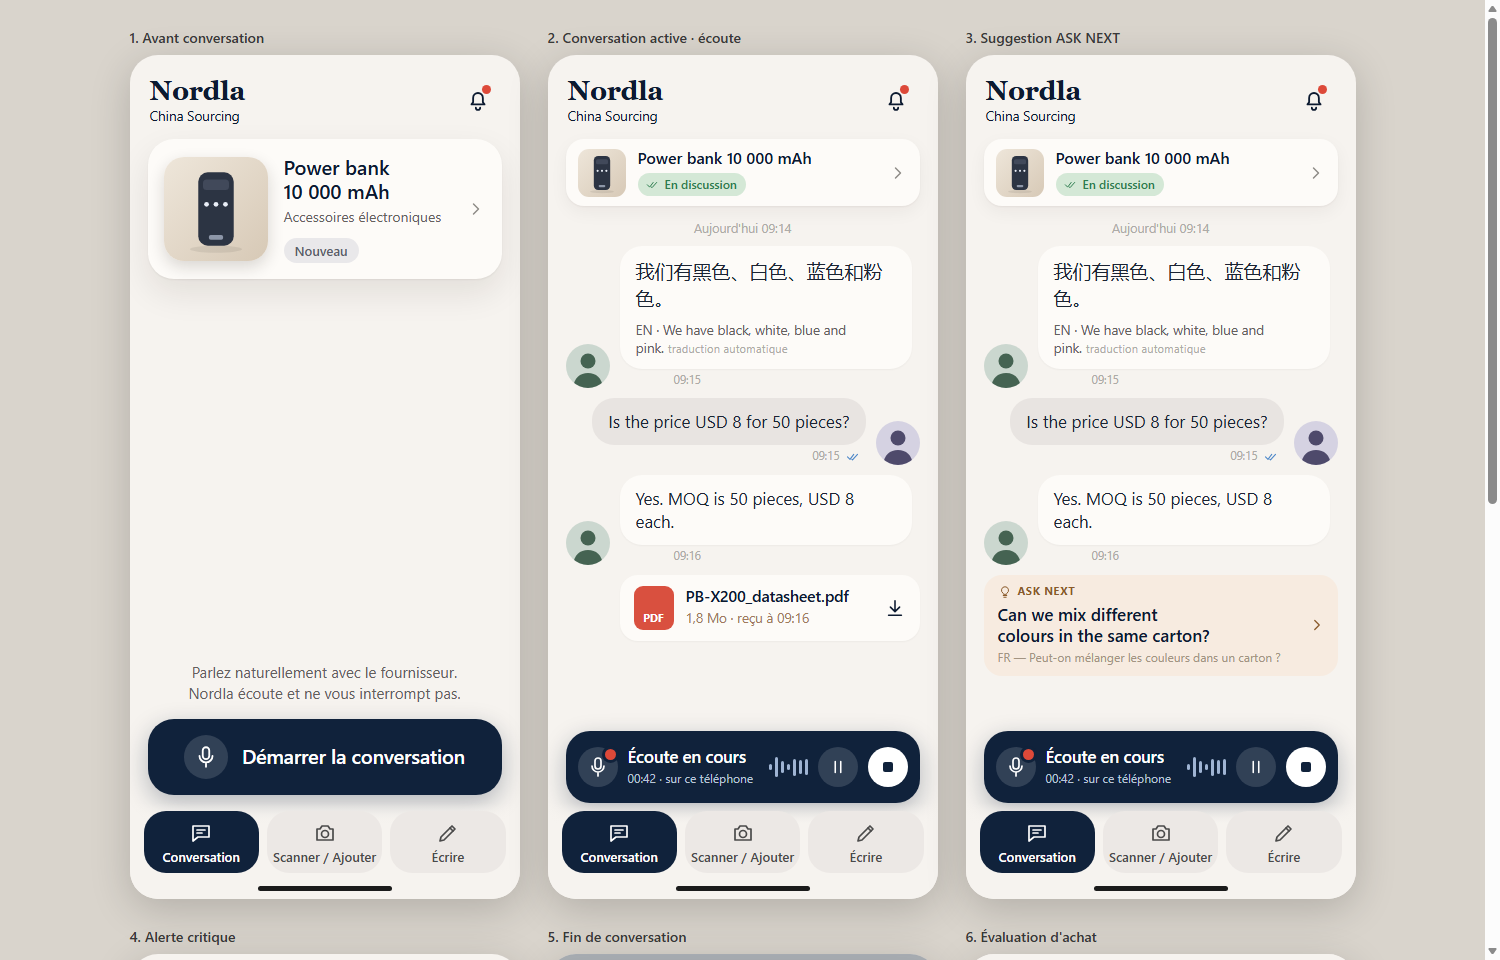
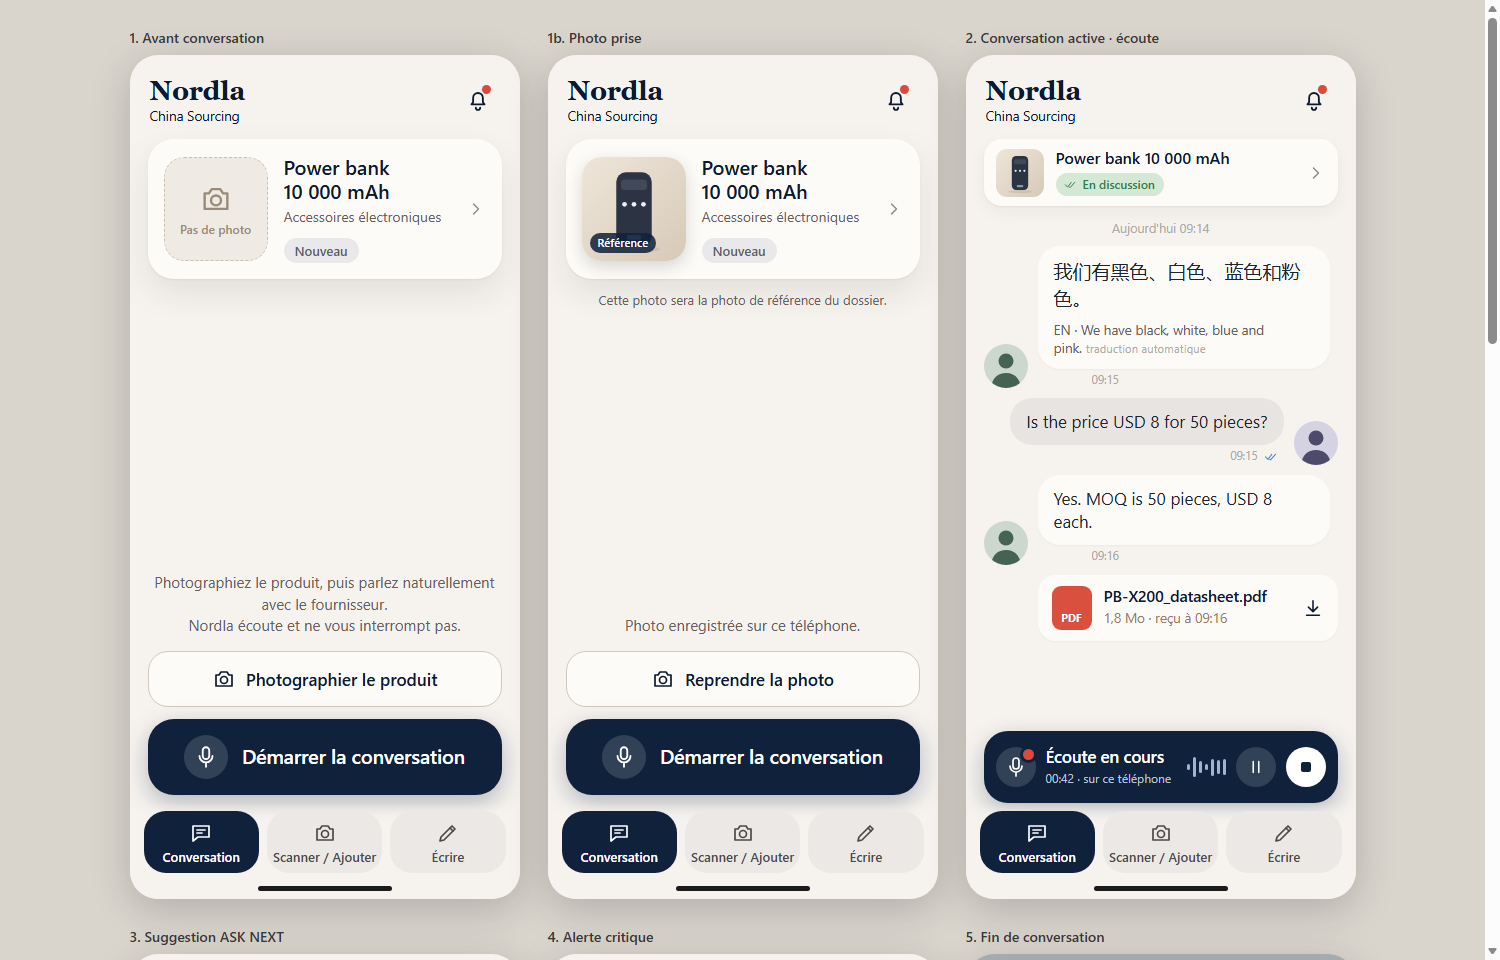
docs(sourcing): portal first screen (photograph product + start conversation); Voice First real-time architecture recommendation
Static portal only; no audio, STT, translation, provider or model.

diff --git a/docs/fidelity-portal/portal.js b/docs/fidelity-portal/portal.js
@@ -16,8 +16,9 @@ const AV_SUP = person('#cbd7cf', '#456352'), AV_ME = person('#d5d2e2', '#4e4a6b'
 const OK = '<span class="gl ok">' + ICON_CHECK + '</span>', CL = '<span class="gl cl"></span>';
 const wave = (n = 7) => `<div class="wave" aria-hidden="true">${Array.from({ length: n }, (_, i) => `<s style="height:${6 + Math.round(Math.abs(Math.sin(i * 1.7) + Math.sin(i * .6)) * 9)}px"></s>`).join('')}</div>`;
 
+const empty = '<div class="ph-empty">' + I('<path d="M4 8h3l2-3h6l2 3h3v11H4z"/><circle cx="12" cy="13" r="3.5"/>', 34) + '<span>Pas de photo</span></div>';
 const header = () => `<div class="hd"><div class="brand">Nordla<small>China Sourcing</small></div><button class="bell" aria-label="Alertes">${ICON.bell}<i></i></button></div>`;
-const product = (o = {}) => `<div class="prod ${o.mini ? 'mini' : ''} ${o.hero ? 'hero' : ''}" data-go="s6" role="button" tabindex="0" aria-label="Ouvrir l'évaluation d'achat"><div class="ph">${bottle}</div><div class="t"><h1>Power bank 10&nbsp;000&nbsp;mAh</h1>${o.mini ? '' : '<p class="s">Accessoires électroniques</p>'}<span class="pill ${o.state === 'Nouveau' ? 'new' : ''}">${o.state === 'Nouveau' ? '' : ICON.check.replace('15', '14')}${o.state}</span></div>${ICON.chev}</div>`;
+const product = (o = {}) => `<div class="prod ${o.mini ? 'mini' : ''} ${o.hero ? 'hero' : ''}" data-go="s6" role="button" tabindex="0" aria-label="Ouvrir l'évaluation d'achat"><div class="ph ${o.nophoto ? 'nophoto' : ''}">${o.nophoto ? empty : bottle}${o.ref ? '<i class="refchip">Référence</i>' : ''}</div><div class="t"><h1>Power bank 10&nbsp;000&nbsp;mAh</h1>${o.mini ? '' : '<p class="s">Accessoires électroniques</p>'}<span class="pill ${o.state === 'Nouveau' ? 'new' : ''}">${o.state === 'Nouveau' ? '' : ICON.check.replace('15', '14')}${o.state}</span></div>${ICON.chev}</div>`;
 const nav = () => `<div class="nav"><button class="on">${ICON.chat}Conversation</button><button>${ICON.camera}Scanner / Ajouter</button><button>${ICON.pencil}Écrire</button></div><div class="hi"></div>`;
 const sup = (inner, time, extra = '') => `<div class="row sup"><div class="av">${AV_SUP}</div><div class="stack"><div class="b ${extra}">${inner}</div><div class="meta">${time}</div></div></div>`;
 const me = (inner, time) => `<div class="row me"><div class="stack"><div class="b">${inner}</div><div class="meta">${time} ${ICON.check}</div></div><div class="av">${AV_ME}</div></div>`;
@@ -30,8 +31,10 @@ const a1 = sup('Yes. MOQ is 50 pieces, USD 8 each.', '09:16');
 const file = '<div class="file"><div class="ic">PDF</div><div><b>PB-X200_datasheet.pdf</b><span>1,8 Mo · reçu à 09:16</span></div><div class="dl">' + ICON.dl + '</div></div>';
 
 const frames = {
-  s1: `<div class="scroll">${header()}${product({ state: 'Nouveau', hero: true })}</div>
-    <div class="start"><p>Parlez naturellement avec le fournisseur.<br>Nordla écoute et ne vous interrompt pas.</p><button class="go" data-go="s2"><span class="mic">${ICON.mic}</span>Démarrer la conversation</button></div>${nav()}`,
+  s1: `<div class="scroll">${header()}${product({ state: 'Nouveau', hero: true, nophoto: true })}</div>
+    <div class="start"><p>Photographiez le produit, puis parlez naturellement avec le fournisseur.<br>Nordla écoute et ne vous interrompt pas.</p><button class="cam" data-go="s1b">${ICON.camera}Photographier le produit</button><button class="go" data-go="s2"><span class="mic">${ICON.mic}</span>Démarrer la conversation</button></div>${nav()}`,
+  s1b: `<div class="scroll">${header()}${product({ state: 'Nouveau', hero: true, ref: true })}<p class="refnote">Cette photo sera la photo de référence du dossier.</p></div>
+    <div class="start"><p>Photo enregistrée sur ce téléphone.</p><button class="cam" data-go="s1">${ICON.camera}Reprendre la photo</button><button class="go" data-go="s2"><span class="mic">${ICON.mic}</span>Démarrer la conversation</button></div>${nav()}`,
   s2: `<div class="scroll">${header()}${product({ mini: true, state: 'En discussion' })}<div class="date">Aujourd'hui 09:14</div>${zhBubble}${q1}${a1}${file}</div>${dock()}${nav()}`,
   s3: `<div class="scroll">${header()}${product({ mini: true, state: 'En discussion' })}<div class="date">Aujourd'hui 09:14</div>${zhBubble}${q1}${a1}${suggest()}</div>${dock()}${nav()}`,
   s4: `<div class="scroll">${header()}<div class="alert">${ICON.warn}<div style="flex:1"><span>MOQ : avant 50, maintenant 100</span><small>Contradiction à clarifier</small></div>${ICON.chev}</div>${product({ mini: true, state: 'En discussion' })}<div class="date" style="margin-top:10px">Aujourd'hui 09:14</div>${q1}${a1}${sup('Sorry, the MOQ is 100 pieces for this price.', '09:18', 'hl')}</div>${dock()}${nav()}`,
@@ -51,7 +54,7 @@ const frames = {
       <div class="k">Prochaine étape</div><div class="next flat"><span class="ic">${ICON.msg}</span><span>Demander le mélange des couleurs, puis les rapports de test.</span></div>
       <p class="legend">${OK} confirmé par vous · ${CL} annoncé par le fournisseur, pas encore confirmé. Les documents ont leurs propres états : annoncé, reçu.</p></div>`,
 };
-const TITLES = { s1: '1. Avant conversation', s2: '2. Conversation active · écoute', s3: '3. Suggestion ASK NEXT', s4: '4. Alerte critique', s5: '5. Fin de conversation', s6: "6. Évaluation d'achat" };
+const TITLES = { s1: '1. Avant conversation', s1b: '1b. Photo prise', s2: '2. Conversation active · écoute', s3: '3. Suggestion ASK NEXT', s4: '4. Alerte critique', s5: '5. Fin de conversation', s6: "6. Évaluation d'achat" };
 // Three ways to look at it: the overview grid (desktop), one bare frame (#s1..#s6, used for captures), and the PHONE VIEWER (?view): a thin bar to switch state, the frame at true width.
 // A few taps move between states (product banner -> evaluation, "Démarrer" -> listening, stop -> end, close -> back): static navigation only, nothing else is wired.
 const q = new URLSearchParams(location.search); const viewer = q.has('view');

diff --git a/docs/fidelity-portal/portal.css b/docs/fidelity-portal/portal.css
@@ -132,3 +132,8 @@ body.viewer{background:var(--bg)}.pnav{position:sticky;top:0;z-index:50;display:
 .vw{position:relative}
 /* V2.1: the English sentence is read aloud: legibility first (17 px like the bubbles), no more shrinking for the sake of the mock-up */
 .sug .en{font-size:17px;line-height:1.28}.sug .fr{font-size:12px}
+/* first screen: photograph the product, then start the conversation (the voice action stays the dominant one) */
+.start .cam{width:100%;height:56px;border-radius:20px;border:1.5px solid #cfc8bf;background:var(--card);color:var(--navy-ink);display:flex;align-items:center;justify-content:center;gap:10px;font:600 17px/1 system-ui;margin:0 0 12px;cursor:pointer}
+.ph-empty{width:100%;height:100%;background:#efeae3;border:1.5px dashed #cdbfae;border-radius:inherit;display:flex;flex-direction:column;align-items:center;justify-content:center;gap:6px;color:#9a8b78;font:500 12px/1.2 system-ui}
+.prod .ph{position:relative}.prod .ph.nophoto{box-shadow:none}.refchip{position:absolute;left:8px;bottom:8px;font:600 10.5px/1 system-ui;font-style:normal;letter-spacing:.04em;background:rgba(16,34,59,.86);color:#fff;padding:5px 8px;border-radius:999px}
+.refnote{margin:12px 6px 0;text-align:center;font-size:13px;color:var(--muted)}

diff --git a/docs/CHINA-SOURCING-VOICE-REALTIME-ARCHITECTURE.md b/docs/CHINA-SOURCING-VOICE-REALTIME-ARCHITECTURE.md
@@ -1,0 +1,122 @@
+# China Sourcing - Voice First : architecture temps réel recommandée (avant tout code STT / traduction)
+
+- **Date** : 2026-10-06 - **HEAD** : branche `feature/china-sourcing-field-mode`
+- **Statut** : RECOMMANDATION TECHNIQUE pour validation. Aucun modèle téléchargé, aucune API, aucune dépendance ajoutée, aucun code d'audio, de STT ou de traduction.
+- **Objectif** : `conversation fournisseur → transcription suffisamment rapide → compréhension Nordla → extraction → suggestion ASK NEXT pendant la conversation`.
+- **Contrainte respectée** : une transcription différée sur PC n'est **pas** la solution principale. Elle n'est qu'une amélioration, car elle empêcherait ASK NEXT de fonctionner pendant la conversation.
+
+## 0. Ce que j'ai vérifié (sources) et ce qui reste non vérifié
+
+| Point | Résultat | Statut |
+|---|---|---|
+| `SpeechRecognition` (dictée du navigateur) sous Firefox Android 157 | non supporté (désactivé par défaut chez Mozilla) | [vérifié, MDN / Mozilla](https://caniuse.com/speech-recognition) |
+| Reconnaissance **sur l'appareil** de Chrome (`processLocally`) | existe, mais lancée sur Windows, Mac, Linux ; **Android pas disponible** au lancement | [vérifié (explainer WebAudio)](https://github.com/WebAudio/web-speech-api/blob/main/explainers/on-device-speech-recognition.md) ; état actuel sur Android à revérifier. **Écarté** (autre navigateur, pas de chinois garanti) |
+| Screen Wake Lock sous Firefox Android 157 | supporté | [vérifié (caniuse)](https://caniuse.com/wake-lock) |
+| AudioWorklet sous Firefox Android | supporté | [vérifié (caniuse)](https://caniuse.com/mdn-api_audioworklet) |
+| MediaRecorder sous Firefox Android | **fonctionne sur votre téléphone** (sonde du 2026-10-05 : Firefox 157, Android 16, `audio/ogg;codecs=opus`, ≈ 950 Ko/min, hors-ligne OK). Une page de compatibilité consultée l'annonce « non supporté » : **elle est contredite par votre appareil** ; la mesure physique fait foi | [vérifié sur appareil] |
+| sherpa-onnx (k2-fsa) | licence **Apache-2.0** pour le code ; démos **WebAssembly** pour reconnaissance en temps réel chinois + anglais (Zipformer), détection d'activité vocale (Silero VAD) et diarisation | [vérifié (dépôt)](https://github.com/k2-fsa/sherpa-onnx) |
+| Modèles de streaming bilingues chinois-anglais | `streaming-zipformer-bilingual-zh-en-2023-02-20` (≈ 80 Mo selon une source secondaire) et `…small-bilingual-zh-en-2023-02-16`, en fp32 et int8 ; **tailles exactes et licences des modèles non indiquées** dans la documentation consultée | [vérifié partiellement](https://k2-fsa.github.io/sherpa/onnx/pretrained_models/online-transducer/index.html) ; **licence par modèle à vérifier avant tout téléchargement** |
+| Whisper dans le navigateur (WASM) | tiny (39 M de paramètres) tourne sur mobile ; base et small peuvent ne pas se charger (mémoire) et chauffent ; débit mesuré sur un processeur récent de 2 à 3 fois le temps réel pour tiny/base | [vérifié (sources secondaires)](https://www.assemblyai.com/blog/offline-speech-recognition-whisper-browser-node-js) ; sur **votre** téléphone : non mesuré |
+| Mots-clés dirigés (hotwords) pour les modèles transducer de sherpa-onnx | à ma connaissance documenté, **non confirmé** dans les pages consultées | non vérifié |
+| Qualité réelle en chinois et en anglais accentué, en salon ou en usine | aucune mesure | **non mesuré : c'est le but du banc d'essai de la section 8** |
+
+## 1. Pourquoi le temps réel exige l'appareil lui-même
+
+Un fournisseur parle devant vous, parfois dans un hall sans bon réseau. Tout ce qui dépend d'un aller-retour réseau (PC derrière un tunnel, cloud) disparaît quand le réseau faiblit. Pour qu'ASK NEXT marche **pendant** la conversation et **hors-ligne**, la transcription de premier niveau doit tourner **sur le téléphone**. Ce qui vient d'ailleurs (PC, cloud) ne peut être qu'un renfort.
+
+Autre point décisif : ASK NEXT a surtout besoin du **sujet** (couleurs, prix, délai, paiement, documents) et de quelques nombres, pas d'une transcription parfaite. Un brouillon rapide et imparfait suffit pour choisir la prochaine question ; l'exactitude vient après, avec confirmation.
+
+## 2. Architecture recommandée en quatre niveaux
+
+```
+ micro ──► CAPTURE (toujours) ──┬─► original : audio Opus en morceaux de 10 s, stocké sur le téléphone
+                                └─► PCM 16 kHz ──► NIVEAU 1 (sur le téléphone, temps réel, hors-ligne)
+                                                     VAD ► ASR en flux ► normalisation ► texte brouillon
+                                                                   │
+        NIVEAU 2 (renfort, optionnel, si réseau + PC) ◄── PCM ─────┤  texte amélioré 3 à 8 s plus tard
+        NIVEAU 3 (dégradé)  : si le niveau 1 ne suit pas ► capture seule + indices tapés
+        NIVEAU 4 (après la conversation) : ré-transcription complète, écarts → confirmations ciblées
+                                                                   │
+        texte ► extracteur déterministe (existant) ► candidats (MEDIUM, jamais groupés) ► topics ► contexte ► présentateur ► ASK NEXT
+```
+
+### Niveau 0 : capture (toujours, quel que soit le moteur)
+- `getUserMedia` avec suppression d'écho, de bruit et gain automatique ; **un seul flux, deux usages** : (a) `MediaRecorder` écrit l'**original** en morceaux de 10 s dans IndexedDB (récupérable après un plantage) ; (b) un AudioWorklet fournit du PCM 16 kHz au moteur.
+- Verrou d'écran (Wake Lock) : la capture exige l'écran allumé et l'application au premier plan (un navigateur n'a pas de service d'arrière-plan : à confirmer en test, **non vérifié** écran verrouillé).
+- Indicateur permanent « Écoute en cours », pause, arrêt ; stockage local par défaut (vos décisions Q2/Q3 : aucune copie ni synchronisation automatique).
+
+### Niveau 1 : temps réel sur le téléphone (solution principale)
+- **VAD** (Silero, via sherpa-onnx WASM) pour couper en énoncés et détecter la fin de parole (≈ 0,5 à 0,8 s de silence).
+- **Reconnaissance en flux** par un modèle Zipformer bilingue chinois-anglais (sherpa-onnx WASM, version int8). Résultats partiels (toutes les 200 à 500 ms) et finaux.
+- **Mots-clés dirigés** à partir du phrasebook de Nordla (FOB, CIF, MOQ, USD, RMB, UN38.3, CE, RoHS, lithium, power bank, couleurs…) pour améliorer ce qui compte, si le modèle le permet (à vérifier).
+- **Normalisation des nombres** (nouveau code déterministe) : « fifty », « 五十 », « eight point two » vers des chiffres ; sans cela l'extracteur actuel (qui lit des chiffres) rate les nombres dictés.
+- **Tours de parole sans bascule manuelle** : (1) langue détectée (le fournisseur parle chinois, vous français/anglais) ; (2) si les langues se confondent, **empreinte vocale du propriétaire** apprise une seule fois (10 s de votre voix, modèle d'empreinte de sherpa-onnx, à évaluer) : tout ce qui n'est pas vous est « fournisseur » ; (3) à défaut, un flux unique « conversation » sans attribution (les faits restent des déclarations à confirmer).
+- **Latence visée** : fin de phrase du fournisseur → texte final ≈ 0,3 à 1 s ; extraction et sujet < 50 ms (code pur existant) ; attente anti-interruption du présentateur (1,5 s aujourd'hui, à ramener vers 0,8 s en mode voix) ; **ASK NEXT affiché ≈ 2 à 3,5 s après que le fournisseur s'est tu**. Les hypothèses partielles servent à préparer le sujet avant l'affichage.
+- Coût 0 €, tout reste sur le téléphone.
+
+### Niveau 2 : renfort en quasi temps réel (optionnel, activé par vous)
+- Si le PC est joignable (tunnel déjà utilisé), le téléphone envoie le PCM par morceaux de 3 à 5 s à un moteur plus fort (faster-whisper ou whisper.cpp, MIT) ; le texte amélioré arrive **3 à 8 s plus tard** et remplace le brouillon du même segment. ASK NEXT ne dépend **pas** de ce niveau.
+- Le cloud en flux (Azure, Google, etc.) n'est **pas** prévu : coût récurrent et audio du fournisseur envoyé à un tiers. Possible seulement sur décision explicite, par conversation, avec plafond de coût.
+
+### Niveau 3 : réseau dégradé ou hors-ligne
+- Le niveau 1 fonctionne sans réseau : c'est le comportement normal, pas un mode secours.
+- Si le niveau 1 ne suit pas (appareil trop lent, chaleur) : le dock affiche « transcription limitée », la capture continue, la transcription passe en lots courts ; ASK NEXT repose alors sur les indices (« Écrire », photo) et sur le dernier sujet connu.
+- Si aucun modèle n'est installé : capture seule + saisie (le produit reste utilisable, rien n'est simulé).
+
+### Niveau 4 : amélioration après la conversation
+- Ré-transcription complète de l'enregistrement avec le meilleur moteur disponible (PC : medium ou large-v3-turbo ; ou téléphone au repos) ; comparaison avec le brouillon : un fait qui change devient un « avant / maintenant » ciblé. Aucune valeur n'est promue automatiquement ; l'original audio reste l'autorité.
+
+## 3. Candidats de transcription (comparatif)
+
+Chiffres de qualité : **aucune mesure sur votre téléphone**. Les colonnes « vérifié » reprennent la section 0.
+
+| Candidat | Firefox Android | Temps réel | Hors-ligne | Chinois / anglais / français | Taille et licence | Rôle proposé |
+|---|---|---|---|---|---|---|
+| Dictée du navigateur | non | n/a | n/a | n/a | n/a | écarté |
+| **sherpa-onnx WASM, Zipformer bilingue** | oui (WASM ; fils d'exécution : en-têtes COOP/COEP à ajouter à nos serveurs) | **oui, en flux** | **oui** | ZH + EN ; FR faible | ≈ 80 Mo (source secondaire) ; code Apache-2.0 vérifié ; **licence du modèle à vérifier** | **niveau 1 (principal)**, sous réserve du banc d'essai |
+| Vosk (petits modèles) | oui | oui | oui | ZH, EN, FR séparés | ≈ 40 à 50 Mo par langue ; Apache-2.0 (à confirmer) | repli du niveau 1 (qualité plus faible attendue) |
+| Whisper tiny en WASM | oui | non (fenêtres de 5 à 10 s) | oui | multilingue, faible en chinois bruité | ≈ 75 Mo ; MIT (à confirmer) | contrôle de comparaison, pas principal |
+| Whisper base / small en WASM | risque (mémoire, chaleur) | non | oui | meilleur | 145 à 470 Mo | écarté sur téléphone |
+| faster-whisper / whisper.cpp sur votre PC | oui (via tunnel) | **quasi** (3 à 8 s) | non (PC + réseau requis) | ZH/EN/FR bons (medium, large-v3-turbo) | 0,5 à 3 Go ; MIT | **niveau 2 et 4** (jamais principal) |
+| Cloud en flux | oui | oui | non | bon | coût récurrent ; données chez un tiers | non prévu (V1 à 0 €) |
+
+## 4. Traduction et lecture à voix haute (hors chemin critique d'ASK NEXT)
+- **ASK NEXT n'a pas besoin de traduction machine** : la phrase anglaise vient du moteur de questions existant (`text.en`), le français aussi.
+- Fournisseur chinois : le texte chinois du brouillon est conservé tel quel ; une traduction EN dérivée est un confort de lecture (niveau 2 ou 4 : Opus-MT ou modèle de langue sur le PC), **jamais requise pour extraire** (l'extracteur lit déjà le chinois).
+- Jouer une phrase en chinois : synthèse vocale du système, seulement pour des phrases relues par un locuteur natif.
+
+## 5. Ce qui est déjà construit et ce qui manque
+
+| Existant (pur, testé) | À construire (après validation) |
+|---|---|
+| extracteur EN/ZH, provenance, règles « machine plafonnée à moyenne, jamais groupée », frontière de providers, topics, contexte, présentateur, journal de questions | module de capture et d'enregistrement par morceaux ; Web Worker du niveau 1 ; adaptateur provider « sherpa » ; normalisation des nombres EN/ZH ; extension de `topics.js` pour lire le texte dérivé quand l'original est un audio ; état « écoute / limitée / hors service » du dock ; adaptateur « PC » (niveau 2) ; réconciliation du niveau 4 ; en-têtes COOP/COEP sur les serveurs ; tests avec enregistrements synthétiques |
+
+## 6. Risques
+- **Anglais accentué et chinois dialectal** : les modèles bilingues sont entraînés sur du chinois standard et de l'anglais de livre ; la reconnaissance de l'anglais d'un fournisseur chinois peut être mauvaise (risque principal, à mesurer).
+- **Chaleur et batterie** (10 à 20 minutes de reconnaissance continue) ; **mémoire** (4 Go de RAM typiques) ; **écran allumé obligatoire** (non vérifié verrouillé).
+- **Nombres et références produit** (« PB-X200 ») mal dictés : tout fait dérivé de l'audio reste de confiance moyenne et confirmé individuellement ; l'extrait audio sert de preuve.
+- **Écho de l'application** (vous prononcez ASK NEXT, le micro l'entend) : traité comme un tour « moi », sans effet sur les faits du fournisseur.
+- **Aspects juridiques** : enregistrer la voix de quelqu'un (RGPD, loi chinoise sur les informations personnelles, usages de salon) : à vérifier par vous ; l'indicateur et l'arrêt sont toujours visibles.
+- **Dérive de périmètre** : aucun routeur de modèles, aucune décision, aucune lecture de documents, aucun cloud.
+
+## 7. Plan de décision selon le résultat du banc d'essai
+1. **Si le niveau 1 réussit** : c'est la solution principale ; le niveau 2 reste un renfort facultatif.
+2. **Si le niveau 1 réussit en chinois mais pas en anglais accentué** (ou l'inverse) : on garde le niveau 1 pour les sujets et nombres, et le niveau 2 devient le renfort recommandé quand votre PC est joignable.
+3. **Si aucun modèle sur téléphone n'est assez bon** : le temps réel dépendra du réseau (niveau 2 en flux vers votre PC) ; ASK NEXT fonctionnera alors avec un délai de 5 à 10 s et pas hors-ligne. Je vous le présenterai tel quel, sans l'appeler « principal sans réserve ».
+
+## 8. Banc d'essai proposé (le seul « code » avant branchement) : à valider
+Page de test **non branchée** à l'application, lancée sur votre Firefox Android, avec des enregistrements courts que **vous** faites sur place (ou que vous passez à haut-parleur) : 12 énoncés en anglais, chinois et mélangés, avec nombres, Incoterms, couleurs, références produit, et du bruit de salon. Elle mesure, pour chaque moteur : délai du premier résultat partiel, délai de fin d'énoncé, facteur temps réel, **exactitude des faits clés** (nombres, unités, FOB, couleurs, codes), mémoire, chaleur et batterie sur 10 minutes.
+Critères de réussite proposés : nombres corrects ≥ 90 % en anglais et ≥ 80 % en chinois ; délai final ≤ 1,5 s ; facteur temps réel ≤ 0,5 ; 10 minutes continues sans arrêt.
+**Moteurs comparés** : sherpa-onnx Zipformer bilingue (int8), Vosk (chinois + anglais), Whisper tiny en contrôle. Puis, côté PC, faster-whisper small et medium sur le tunnel pour mesurer le délai du niveau 2.
+**Téléchargements à approuver** (tailles indicatives, licences à vérifier une par une avant tout téléchargement) : modèle Zipformer bilingue ≈ 80 Mo, Silero VAD ≈ 2 Mo, Vosk chinois et anglais ≈ 90 Mo, Whisper tiny ≈ 75 Mo ; sur le PC : faster-whisper (paquet Python) + modèle small ≈ 0,5 Go, éventuellement medium ≈ 1,5 Go. **Rien n'est téléchargé sans votre accord explicite.**
+
+## 9. Ce que j'ai besoin que vous décidiez ou me disiez
+1. Le modèle et la mémoire de votre téléphone (le logiciel est connu : Firefox 157, Android 16).
+2. Dans quelle langue vos fournisseurs vous parlent-ils vraiment (mandarin standard, anglais accentué, dialecte), et dans quel bruit (salon, usine) ?
+3. Votre PC est-il avec vous sur place (ou un partage de connexion) ? Cela décide de l'utilité du niveau 2.
+4. Accord pour le banc d'essai et pour la liste de téléchargements de la section 8 (ou une liste réduite).
+5. Accord pour ajouter les en-têtes COOP/COEP à nos serveurs (changement de configuration limité, nécessaire aux fils d'exécution WASM) au moment du banc d'essai.
+6. Valider que le brouillon temps réel crée des candidats de confiance moyenne confirmés individuellement, et que le renfort et la ré-transcription ne font que **proposer** des corrections.
+
+## 10. Compatibilité Constitution Nordla
+Providers adaptables choisis par le propriétaire, sans routage automatique (L3-001) ; aucun agent déclenché en arrière-plan (L3-009) ; aucune lecture de documents avancée (L3-011) ; provenance machine inchangée (confiance moyenne, jamais groupée, confirmation individuelle) ; calcul déterministe (NDR-008) ; aucun objet Sujet / Levier / Règle / Décision ajouté dans China Sourcing ; aucune intégration avec `socle-decision`.
